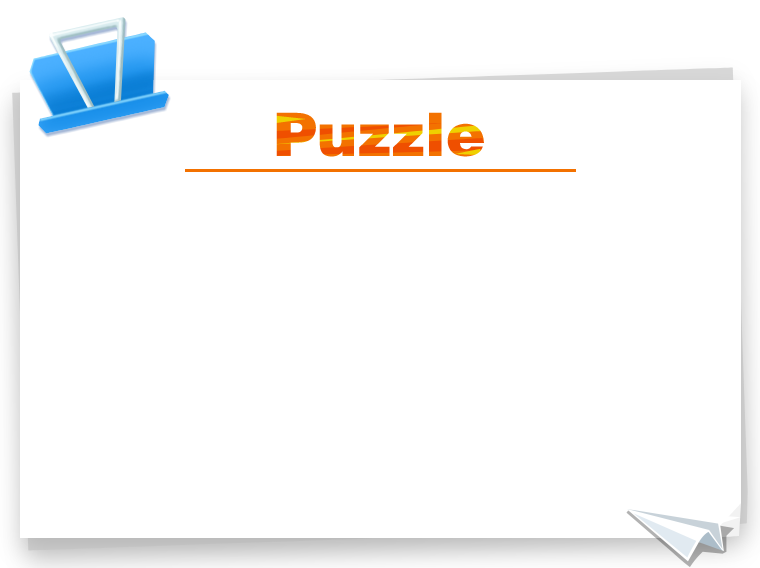
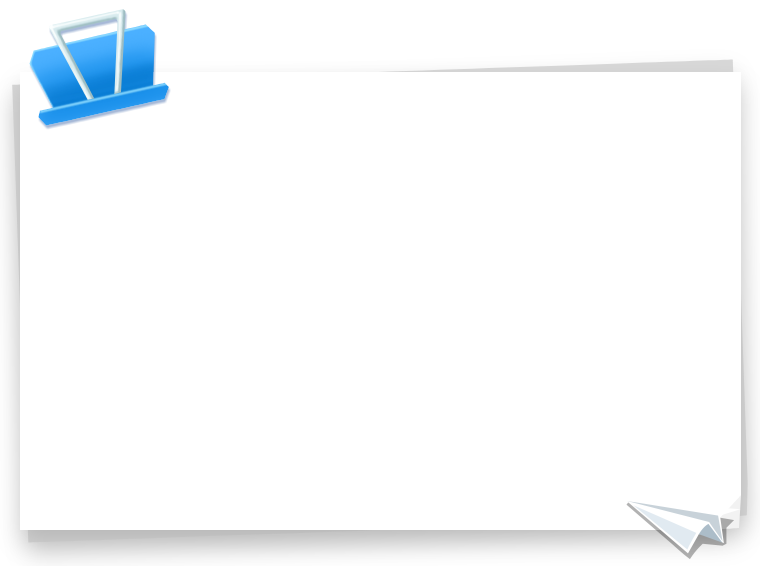
修改样式适配更多机器

diff --git a/src/views/puzzlePage.vue b/src/views/puzzlePage.vue
@@ -10,6 +10,7 @@
 
     <div class="puzzleContainer">
         <!-- <p class="sentance" v-html="sentance"></p> -->
+        <h1 style="padding-top:20%"><span style="color:#f37200;text-decoration:underline">Puzzle</span></h1>
         <mt-radio
         class="page-part"
         :title="title"
@@ -27,14 +28,13 @@
 
 <style scope="this api replaced by slot-scope in 2.5.0+">
 
-    
     .puzzleContainer{
         background-image: url('.././assets/puzzlebg.png');
         background-size: 100% 100%;
         background-repeat:no-repeat;
         background-position:center;
         width: 90%;
-        height: 40%;
+        height: 50%;
         margin-left: 5%;
         margin-top: 10%;
     }
@@ -46,7 +46,8 @@
     
 
     .page-checklist .page-part {
-        margin-top: 40px;
+        margin-top: 10%;
+        
     }
 
     .mint-msgbox-message{
@@ -69,8 +70,9 @@
         text-align: center;
         margin-left:20px; 
         margin-top: 2px;
-        padding-top: 25%;
+        /* padding-top: 40%; */
         width: 90%;
+        overflow: hidden;
     }
 
     .sentance{
@@ -85,7 +87,7 @@
     }
 
     .mint-cell:last-child{
-        background-size: 0px;
+         background-size: 0px;
     }
 
 </style>
